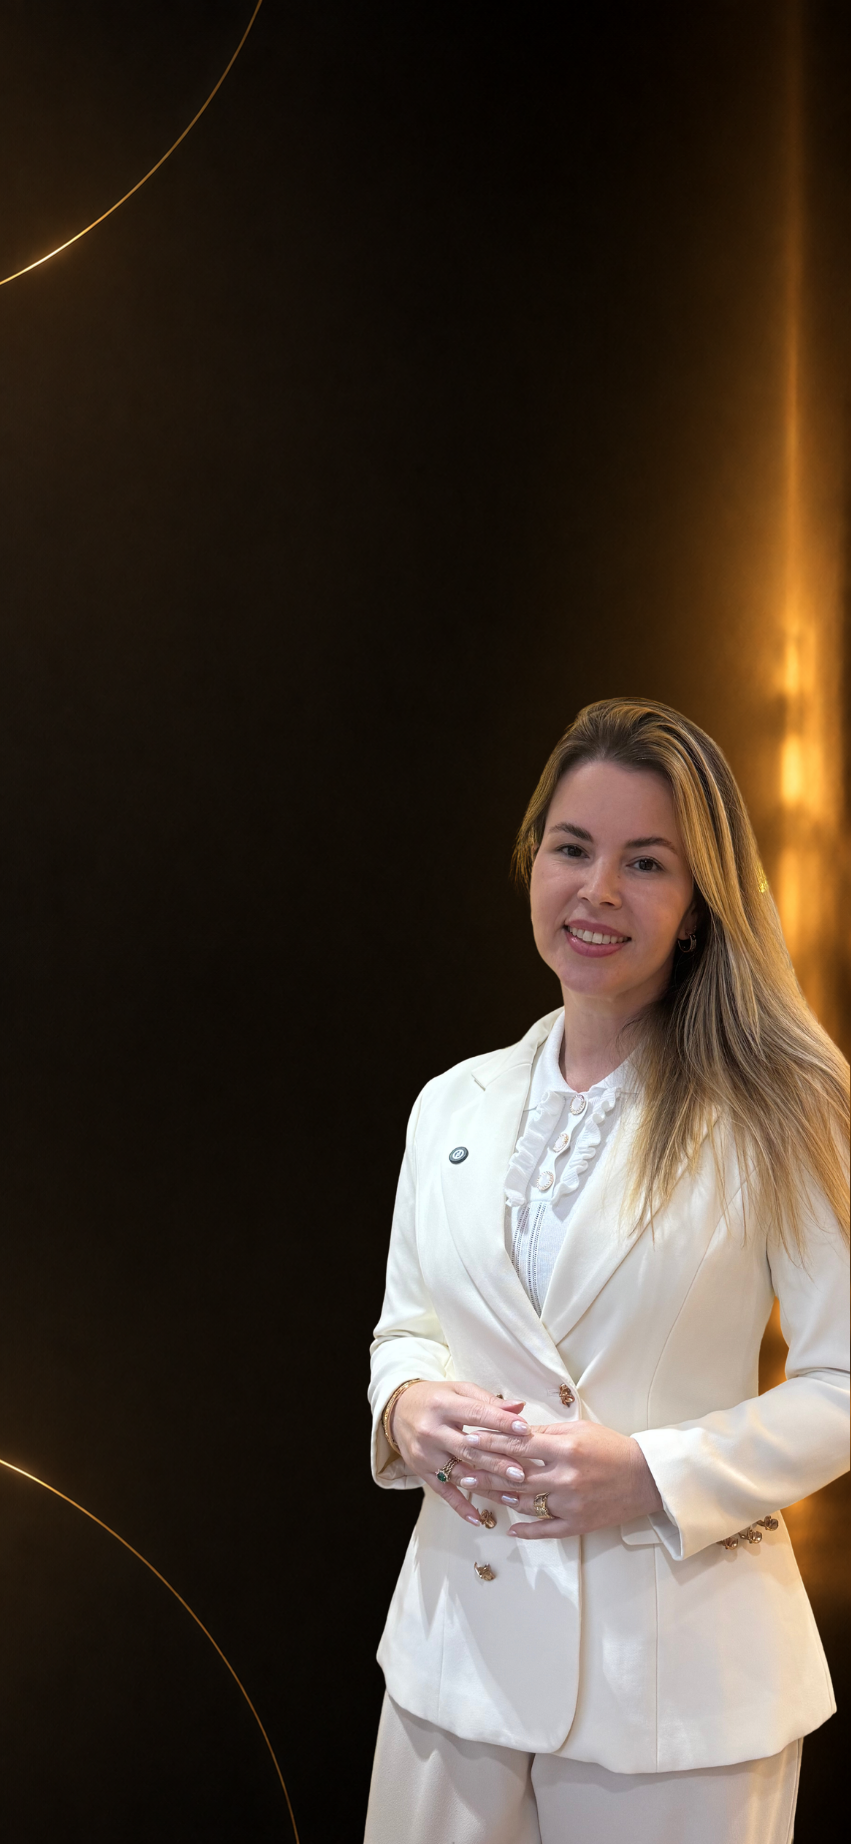
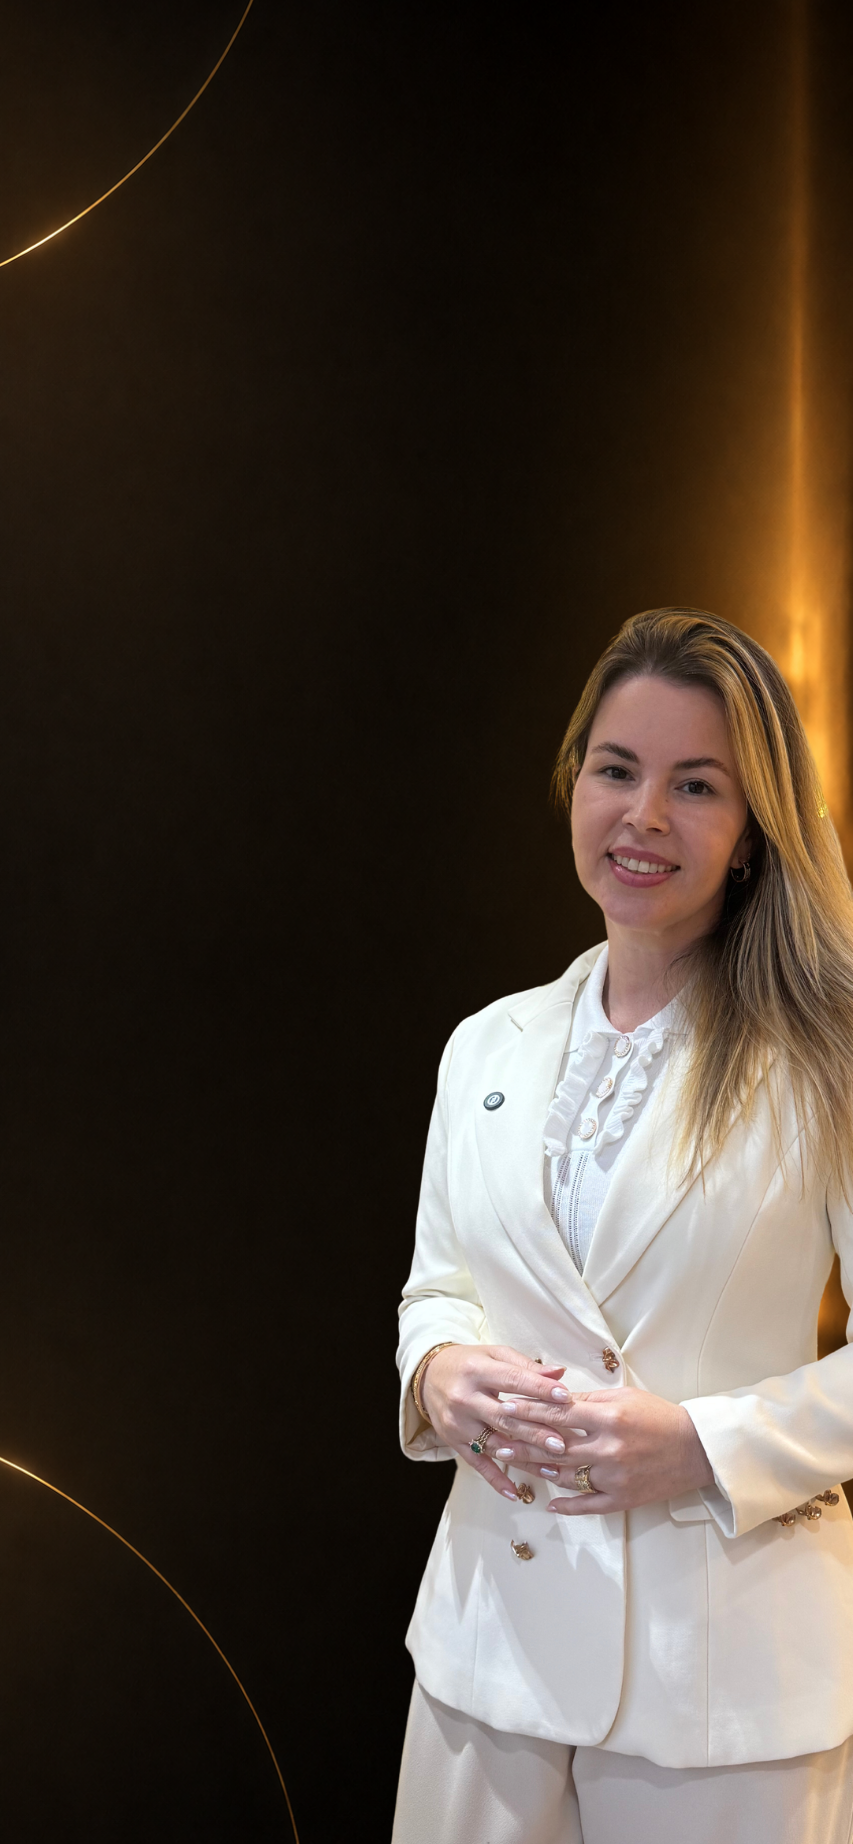
posição btn e foto main header

diff --git a/index.html b/index.html
@@ -182,7 +182,7 @@
                 <div class="split-text">
                     <span class="section-tag">Programa Exclusivo</span>
                     <h2 class="section-title">D. Mulher 360</h2>
-                    <p class="split-desc-esquerda">Um acompanhamento completo para você viver todas as fases com saúde e plenitude.</p>
+                    <p class="split-desc-esquerda">Acompanhamento completo para você viver todas as fases com saúde e plenitude.</p>
                     <ul class="check-list">
                         <li>Plano personalizado</li>
                         <li>Acompanhamento contínuo</li>

diff --git a/css/style.css b/css/style.css
@@ -157,6 +157,7 @@ ul {
     display: flex;
     align-items: center;
     gap: 32px;
+    z-index: 999;
 }
 
 .nav-list {
@@ -845,9 +846,9 @@ ul {
 
 .check-list li {
     padding: 8px 0;
-    padding-left: 28px;
+    padding-left: 15px;
     position: relative;
-    font-size: 0.95rem;
+    font-size: 1rem;
 }
 
 .check-list li::before {
@@ -2147,7 +2148,7 @@ ul {
     position: fixed;
     right: 20px;
     bottom: calc(20px + env(safe-area-inset-bottom));
-    z-index: 1200;
+    z-index: 998;
     display: inline-flex;
     align-items: center;
     justify-content: center;
